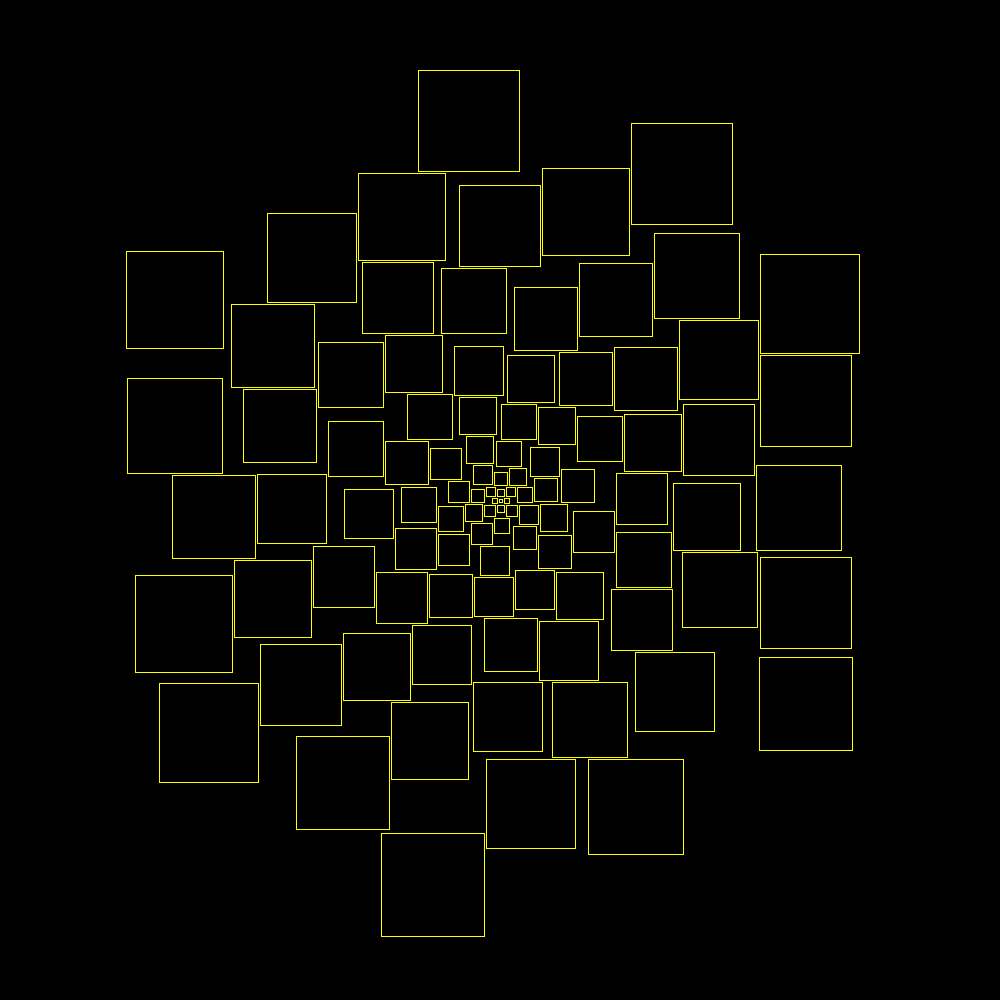
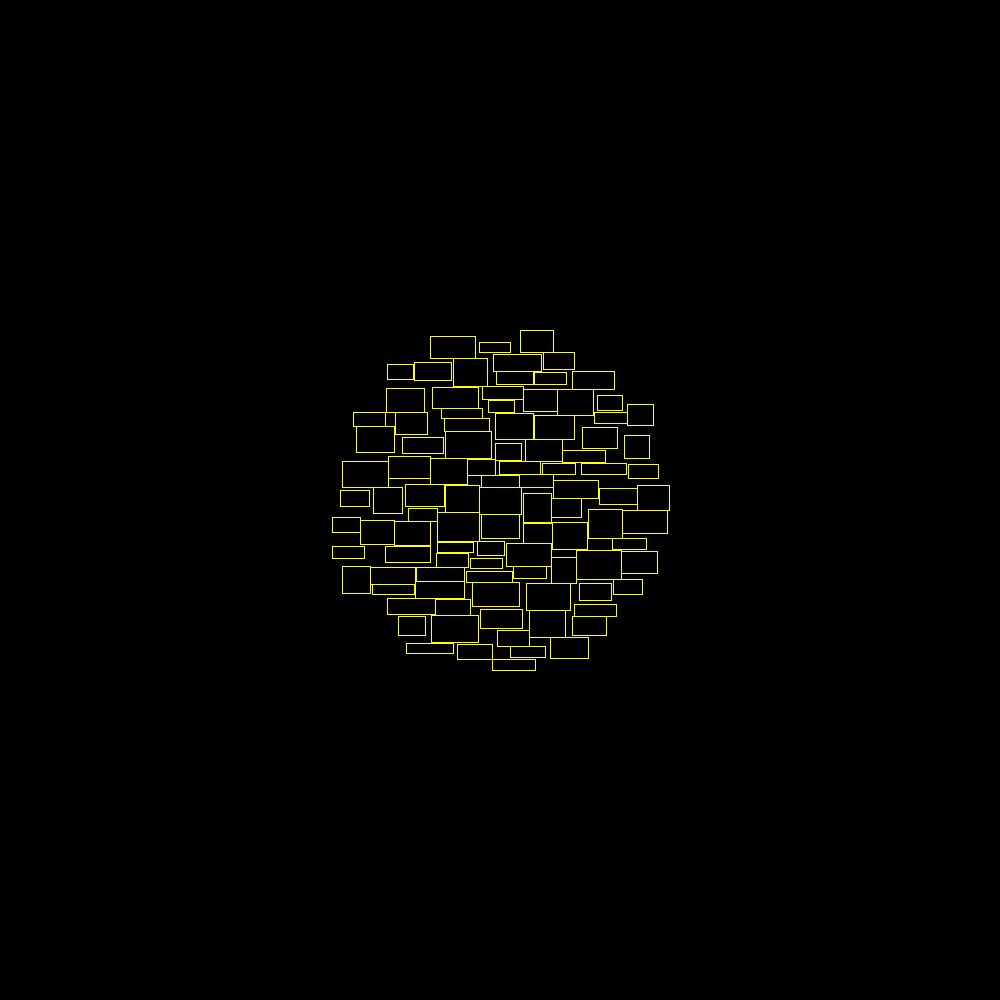
New examples. New test. Some fixes. Tests refactored

Changed region(s): [[0.341, 0.341, 0.682, 0.682], [0.217, 0.558, 0.248, 0.589]]

diff --git a/TagsCloudVisualization/CircularCloudLayouterTests.cs b/TagsCloudVisualization/CircularCloudLayouterTests.cs
@@ -32,80 +32,76 @@ namespace TagsCloudVisualization
             Console.WriteLine($"Tag cloud visualization saved to file {name}");
         }
 
-        [TestCase(10, 10, ExpectedResult = true)]
-        [TestCase(100, 50, ExpectedResult = true)]
-        [TestCase(20, 30, ExpectedResult = true)]
-        [TestCase(1000, 2000, ExpectedResult = true)]
-        [TestCase(500, 600, ExpectedResult = true)]
-        public bool FirstRectangle_PlacedInsideCloud_IsPlacedInCenter(int width, int height)
+        [TestCase(10, 10)]
+        [TestCase(100, 50)]
+        [TestCase(20, 30)]
+        [TestCase(1000, 2000)]
+        [TestCase(500, 600)]
+        public void FirstRectangle_PlacedInsideCloud_IsPlacedInCenter(int width, int height)
         {
             var rectangleSize = new Size(width, height);
 
             var resultedRectangle = cloudLayouter.PutNextRectangle(rectangleSize);
 
-            return resultedRectangle.GetCenter().Equals(center);
+            Assert.IsTrue(resultedRectangle.GetCenter().Equals(center));
         }
 
-        [TestCase(12, 11, ExpectedResult = false)]
-        [TestCase(130, 18, ExpectedResult = false)]
-        [TestCase(27, 38, ExpectedResult = false)]
-        [TestCase(5000, 1, ExpectedResult = false)]
-        [TestCase(4800, 600, ExpectedResult = false)]
-        public bool TwoRectanlges_PlacedInsideCloud_DoNotIntersect(int width, int height)
+        [TestCase(12, 11)]
+        [TestCase(130, 18)]
+        [TestCase(27, 38)]
+        [TestCase(5000, 1)]
+        [TestCase(4800, 600)]
+        public void TwoRectanlges_PlacedInsideCloud_DoNotIntersect(int width, int height)
         {
             var rectangleSize = new Size(width, height);
 
             var firstRectangle = cloudLayouter.PutNextRectangle(rectangleSize);
             var secondRectangle = cloudLayouter.PutNextRectangle(rectangleSize);
 
-            return firstRectangle.IntersectsWith(secondRectangle);
+            Assert.False(firstRectangle.IntersectsWith(secondRectangle));
         }
 
-        [TestCase(5, 4, ExpectedResult = false)]
-        [TestCase(125, 75, ExpectedResult = false)]
-        [TestCase(20, 40, ExpectedResult = false)]
-        [TestCase(1200, 1800, ExpectedResult = false)]
-        [TestCase(400, 750, ExpectedResult = false)]
-        public bool TwoRectangles_PlacedInsideCloud_DoNotHaveSameCenters(int width, int height)
+        [TestCase(5, 4)]
+        [TestCase(125, 75)]
+        [TestCase(20, 40)]
+        [TestCase(1200, 1800)]
+        [TestCase(400, 750)]
+        public void TwoRectangles_PlacedInsideCloud_DoNotHaveSameCenters(int width, int height)
         {
             var rectangleSize = new Size(width, height);
 
             var firstRectangle = cloudLayouter.PutNextRectangle(rectangleSize);
             var secondRectangle = cloudLayouter.PutNextRectangle(rectangleSize);
 
-            return firstRectangle.GetCenter().Equals(secondRectangle.GetCenter());
+            Assert.False(firstRectangle.GetCenter().Equals(secondRectangle.GetCenter()));
         }
 
-        [TestCase(100, 10, 10, ExpectedResult = false)]
-        [TestCase(2, 50, 5, ExpectedResult = false)]
-        [TestCase(70, 30, 12, ExpectedResult = false)]
-        [TestCase(1000, 200, 25, ExpectedResult = false)]
-        [TestCase(899, 100, 100, ExpectedResult = false)]
-        public bool NewRectangle_PlacedInsideCloud_DoesNotIntersectWithOthers(int width, int height, int count)
+        [TestCase(100, 10, 10)]
+        [TestCase(2, 50, 5)]
+        [TestCase(70, 30, 12)]
+        [TestCase(1000, 200, 25)]
+        [TestCase(899, 100, 100)]
+        public void NewRectangle_PlacedInsideCloud_DoesNotIntersectWithOthers(int width, int height, int count)
         {
             var rectangleSize = new Size(width, height);
 
-            if (count == 0)
-                return false;
             for (var i = 0; i < count; i++)
                 cloudLayouter.PutNextRectangle(rectangleSize);
             var rectangles = cloudLayouter.GetRectangles();
             var rectangle = cloudLayouter.PutNextRectangle(rectangleSize);
 
-            return rectangles.Any(x => x.IntersectsWith(rectangle));
+            Assert.False(rectangles.Any(x => x.IntersectsWith(rectangle)));
         }
 
-        [TestCase(1, 1, 8, ExpectedResult = false)]
-        [TestCase(200, 51, 6, ExpectedResult = false)]
-        [TestCase(278, 3, 17, ExpectedResult = false)]
-        [TestCase(1210, 4012, 38, ExpectedResult = false)]
-        [TestCase(555, 60, 87, ExpectedResult = false)]
-        public bool OldRectangles_NewRectangleAddedToCloud_DoNotIntersectWithEachOther(int width, int height, int count)
+        [TestCase(1, 1, 8)]
+        [TestCase(200, 51, 6)]
+        [TestCase(278, 3, 17)]
+        [TestCase(1210, 4012, 38)]
+        [TestCase(555, 60, 87)]
+        public void OldRectangles_NewRectangleAddedToCloud_DoNotIntersectWithEachOther(int width, int height, int count)
         {
             var rectangleSize = new Size(width, height);
 
-            if (count == 0)
-                return false;
             for (var i = 0; i < count; i++)
                 cloudLayouter.PutNextRectangle(rectangleSize);
             var oldRectangles = cloudLayouter.GetRectangles();
@@ -115,10 +111,40 @@ namespace TagsCloudVisualization
             foreach (var rectangle in oldRectangles)
             {
                 var rectangles = oldRectangles.Where(x => !x.Equals(rectangle));
-                if (rectangles.Any(x => x.IntersectsWith(rectangle)))
-                    return true;
+                Assert.False(rectangles.Any(x => x.IntersectsWith(rectangle)));
             }
-            return false;
+        }
+
+        private Rectangle[] CreateLayout(int count, int maxWidth, int maxHeight)
+        {
+            const int bias = 5;
+            var rnd = new Random();
+            for (var i = bias; i < count + bias; i++)
+                cloudLayouter.PutNextRectangle(new Size(rnd.Next(10, maxWidth), rnd.Next(10, maxHeight)));
+            return cloudLayouter.GetRectangles();
+        }
+
+        private static bool IsInsideCircle(Point point, Point circleCenter, int radius)
+        {
+            var distance = Math.Sqrt(Math.Pow(point.X - circleCenter.X, 2) + Math.Pow(point.Y - circleCenter.Y, 2));
+            return distance < radius;
+        }
+
+        [Test]
+        public void Cloud_Formed_IsCircleWithTolerance()
+        {
+            var rectangles = CreateLayout(100, 50, 50);
+            const double spacingCoefficent = 1.5;
+            const double tolerance = 0.2;
+
+            var rectanglesArea = rectangles.Sum(x => x.Width * x.Height);
+            var circleArea = rectanglesArea * spacingCoefficent;
+            var radius = (int)Math.Ceiling(Math.Sqrt(circleArea / Math.PI));
+            var circleCenter = rectangles[0].GetCenter();
+            double outerRectanglesCount = rectangles.Count(x => !IsInsideCircle(x.GetCenter(), circleCenter, radius));
+            var outerRectanglesCoefficent = outerRectanglesCount / rectangles.Length;
+
+            Assert.Less(outerRectanglesCoefficent, tolerance);
         }
     }
 }

diff --git a/TagsCloudVisualization/CloudVisualizer.cs b/TagsCloudVisualization/CloudVisualizer.cs
@@ -1,6 +1,7 @@
-using System.Collections.Generic;
+using System;
 using System.Drawing;
 using System.Drawing.Imaging;
+using System.Linq;
 
 
 namespace TagsCloudVisualization
@@ -28,20 +29,43 @@ namespace TagsCloudVisualization
             imageHeight = 1000;
         }
 
-        public void Draw(IEnumerable<Rectangle> data, Bitmap image)
+        private void DrawRectangles(Rectangle[] data, Graphics graphics)
         {
-            var graphics = Graphics.FromImage(image);
             graphics.Clear(backgroundColor);
             foreach (var sample in data)
                 graphics.DrawRectangle(pen, sample);
             graphics.Save();
         }
 
-        public void Visualise(IEnumerable<Rectangle> data, string filename)
+        public void Visualise(Rectangle[] data, string filename)
         {
             var image = new Bitmap(imageWidth, imageHeight);
-            Draw(data, image);
+            var graphics = Graphics.FromImage(image);
+            DrawRectangles(data, graphics);
             image.Save(filename, ImageFormat.Png);
+        }
+
+        public void VisualiseWithCircle(Rectangle[] data, string filename)
+        {
+            var image = new Bitmap(imageWidth, imageHeight);
+            var graphics = Graphics.FromImage(image);
+            DrawRectangles(data, graphics);
+            DrawCircle(data, graphics);
+            image.Save(filename, ImageFormat.Png);
+        }
+
+        private void DrawCircle(Rectangle[] data, Graphics graphics)
+        {
+            var rectanglesArea = data.Sum(x => x.Width * x.Height);
+            const double tolerance = 1.5;
+            var circleArea = rectanglesArea * tolerance;
+
+            var radius = (int)Math.Ceiling(Math.Sqrt(circleArea / Math.PI));
+            var center = data[0].GetCenter();
+            var location = new Point(center.X - radius, center.Y - radius);
+            var circleRectangle = new Rectangle(location, new Size(radius * 2, radius * 2));
+            var circlePen = new Pen(Color.Chartreuse, 1);
+            graphics.DrawEllipse(circlePen, circleRectangle);
         }
     }
 }

diff --git a/TagsCloudVisualization/Program.cs b/TagsCloudVisualization/Program.cs
@@ -1,28 +1,28 @@
 using System;
-using System.Collections.Generic;
+using System.Diagnostics;
 using System.Drawing;
 
 namespace TagsCloudVisualization
 {
     class Program
     {
-        public static IEnumerable<Rectangle> MakeData(CircularCloudLayouter layouter, int count, int width)
+        public static Rectangle[] CreateLayout(CircularCloudLayouter layouter, int count)
         {
             const int bias = 5;
             var rnd = new Random();
             for (var i = bias; i < count + bias; i++)
-                layouter.PutNextRectangle(new Size(rnd.Next(25, 50), rnd.Next(10, 30)));
+                layouter.PutNextRectangle(new Size(rnd.Next(10, 50), rnd.Next(10, 50)));
             return layouter.GetRectangles();
         }
 
         static void Main(string[] args)
         {
-            const int width = 1;
             var testNumber = double.Parse(args[0]);
             var visualiser = new CloudVisualizer();
             var layouter = new CircularCloudLayouter(new Point(500, 500));
-            var testData = MakeData(layouter, 500, width);
+            var testData = CreateLayout(layouter, 100);
             visualiser.Visualise(testData, $"test{testNumber}.png");
+            Process.Start($"test{testNumber}.png");
         }
     }
 }

diff --git a/TagsCloudVisualization/CircularCloudLayouter.cs b/TagsCloudVisualization/CircularCloudLayouter.cs
@@ -17,8 +17,7 @@ namespace TagsCloudVisualization
 
         public Rectangle PutNextRectangle(Size rectangleSize)
         {
-            var previousPoint = rectangles.Count > 0 ? rectangles[rectangles.Count - 1].GetCenter() : Center;
-            var currentPoint = GetNextPoint(previousPoint, rectangleSize, spiral);
+            var currentPoint = GetNextPoint(rectangleSize);
             var upperLeftPoint = new Point(currentPoint.X - rectangleSize.Width / 2,
                 currentPoint.Y - rectangleSize.Height / 2);
             var rectangle = new Rectangle(upperLeftPoint, rectangleSize);
@@ -33,11 +32,11 @@ namespace TagsCloudVisualization
             return rectangles.All(x => !x.IntersectsWith(rectangle));
         }
 
-        private Point GetNextPoint(Point start, Size rectangleSize, ICurve curve)
+        private Point GetNextPoint(Size rectangleSize)
         {
-            var point = start;
+            var point = Center;
             while (!CanPutRectangle(point, rectangleSize))
-                point = curve.GetNextPoint();
+                point = spiral.GetNextPoint();
             return point;
         }
 
